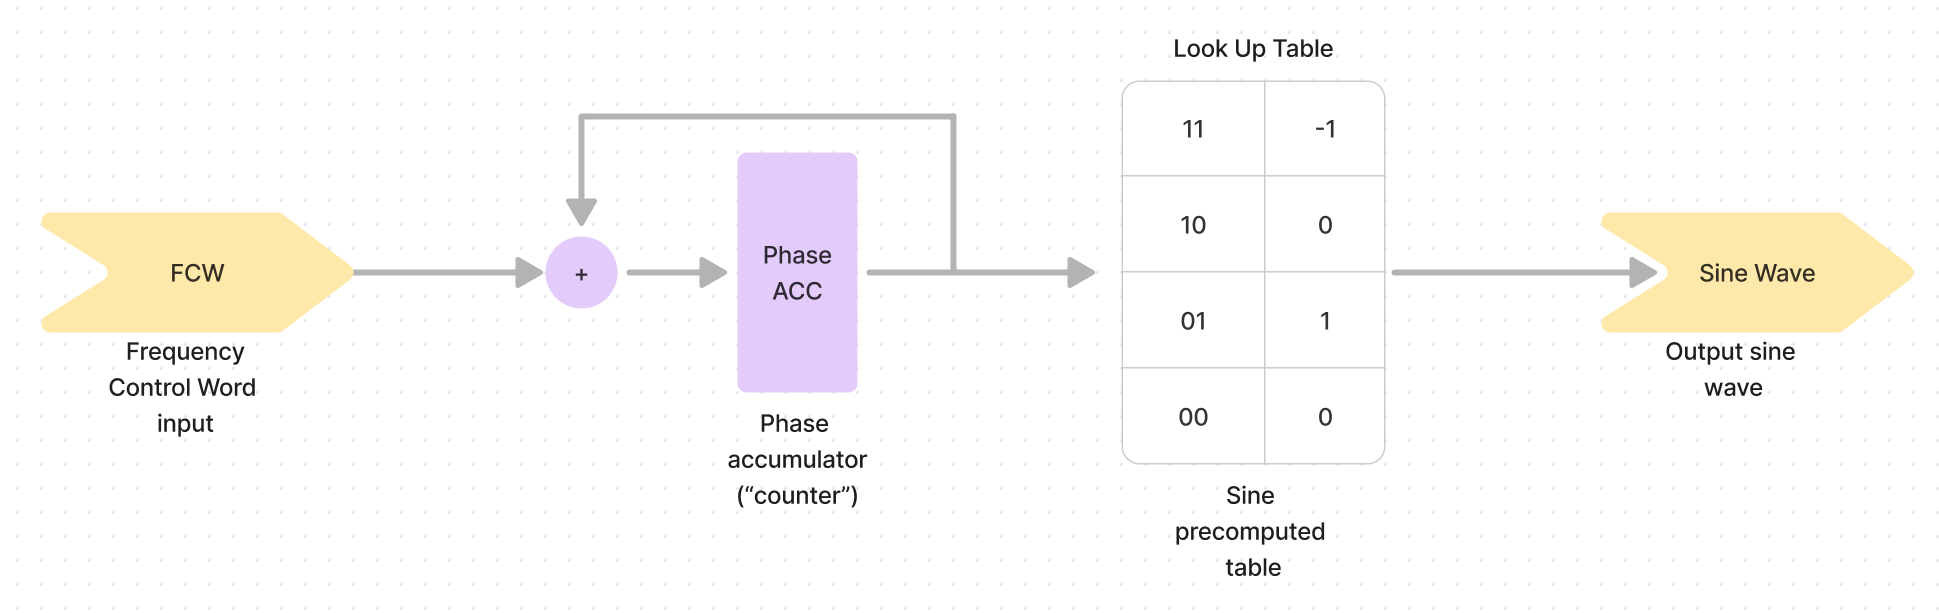
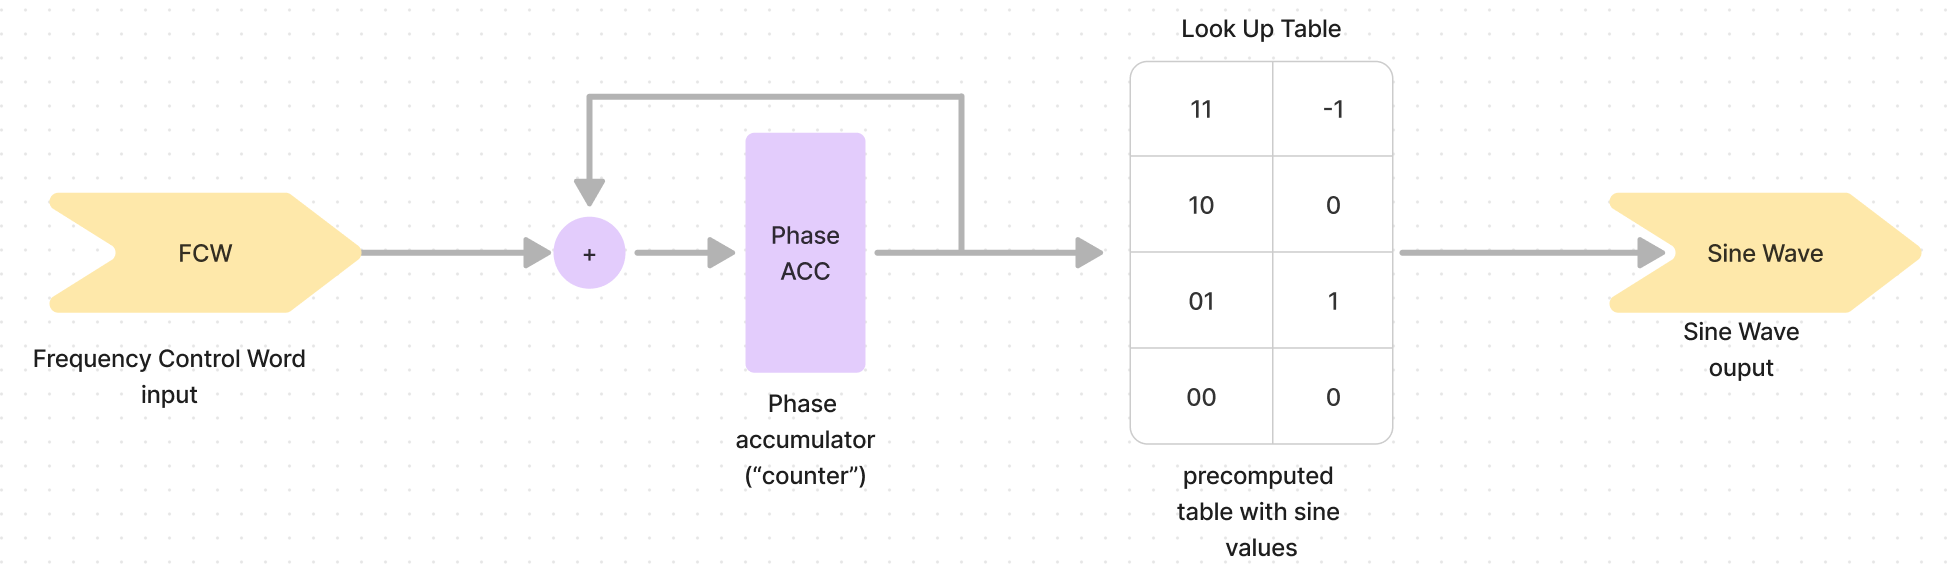
docs: improving documentation

diff --git a/README.md b/README.md
@@ -4,8 +4,6 @@ A **Numerically Controlled Oscillator (NCO)** is a digital signal processing com
 
 This is a synthesizable VHDL implementation of an NCO that can be used in FPGAs, CPLDs or even ASICs. I will be using this in fully digital PLL, Costa Loop, and transceivers (ASK, FSK, BPSK, QPSK, QAM).
 
-![Basic NCO Architecture](https://github.com/portela/NCO/blob/develop/doc/images/NCO_basic_architecture.png?raw=true)
-
 ### DDS - Direct digital syntheses 
 
 The NCO works in the digital domain. Its output is just a bunch os bits that represent a sine wave. In order to convert these digital amplitude values into an analog signal, a Digital-to-Analog Converter (DAC) is used. The combination of the NCO with a DAC forms the basis of a Direct Digital Synthesis (DDS) system, which is widely used in signal generators, communication systems, and other applications requiring precise frequency and phase control. Together, these components enable the NCO to generate precise sine wave outputs.
@@ -14,7 +12,21 @@ The NCO works in the digital domain. Its output is just a bunch os bits that rep
 
 A hardware implementation of a NCO is, at its core, a remarkably straightforward circuit with two primary components: a phase accumulator and a sine lookup table. The phase accumulator is essentially a counter that increments its value with each clock cycle, representing the phase of the waveform being generated. The sine lookup table, on the other hand, contains precomputed values of a sine wave corresponding to different phases. So the output of the phase acumulator is directect connect to the sine lookup table. For every phase input, there is a precomputed value of a sine wave on the output.Together, these components allow the NCO to generate precise sine wave outputs. 
 
+![Basic NCO Architecture](https://github.com/portela/NCO/blob/develop/doc/images/NCO_basic_architecture.png?raw=true)
+
+The input to the circuit is the Frequency Control Word (FCW), which determines how much the phase accumulator (referred to as phase_acc) is incremented with each clock cycle. Essentially, the FCW controls the frequency of the output signal. The larger the FCW, the faster the phase_acc counts, which results in a higher frequency for the output waveform generated by the NCO. 
+
+![NCO fcw vs phase accumulator](https://github.com/portela/NCO/blob/develop/doc/images/NCO_fcw_vs_phase_acc.png?raw=true)
+
+The image above illustrates how the phase_acc increments for two different FCW values (1 and 2). As shown, when the FCW is set to 2, the phase_acc increases twice as fast compared to when the FCW is 1. This demonstrates how a higher FCW results in a faster progression of the phase, leading to a higher frequency output.
+
+It also reveals the sawtooth pattern of the phase_acc output. This sawtooth shape occurs because the phase_acc continuously increments until it reaches its maximum value, then wraps around to zero and starts incrementing again.
+
+It should be noted that this sawtooth waveform represents the phase of a sine wave in digital form. As the phase_acc linearly progresses from 0 to its maximum value, it effectively maps out the entire cycle of the sine wave. When the phase_acc wraps around to zero, it signifies the completion of one full cycle of the sine wave and the beginning of the next. The gradual increase in the phase_acc corresponds to the smooth progression through the sine wave's phase, while the abrupt reset at the maximum value correlates to the transition back to the start of the sine wave cycle.
+
 It's fascinating that such a simple combination — a counter and a table — can form the basis of a highly versatile and powerful signal generator.
+
+
 
 ### Synthesizable
 
@@ -74,6 +86,12 @@ $ sudo apt-get install ghdl gtkwave
 $ sudo apt-get -y install make
 ```
 
+### ToDo
+
+- [ ] Improve Makefile
+- [ ] Add cosine output
+- [ ] Make a simple modulator (FSK? BPSK?)
+- [ ] Docuemntation: make a simple AM, FM, ASK, FSK, BPSK modulator 
 
 # About me
 
